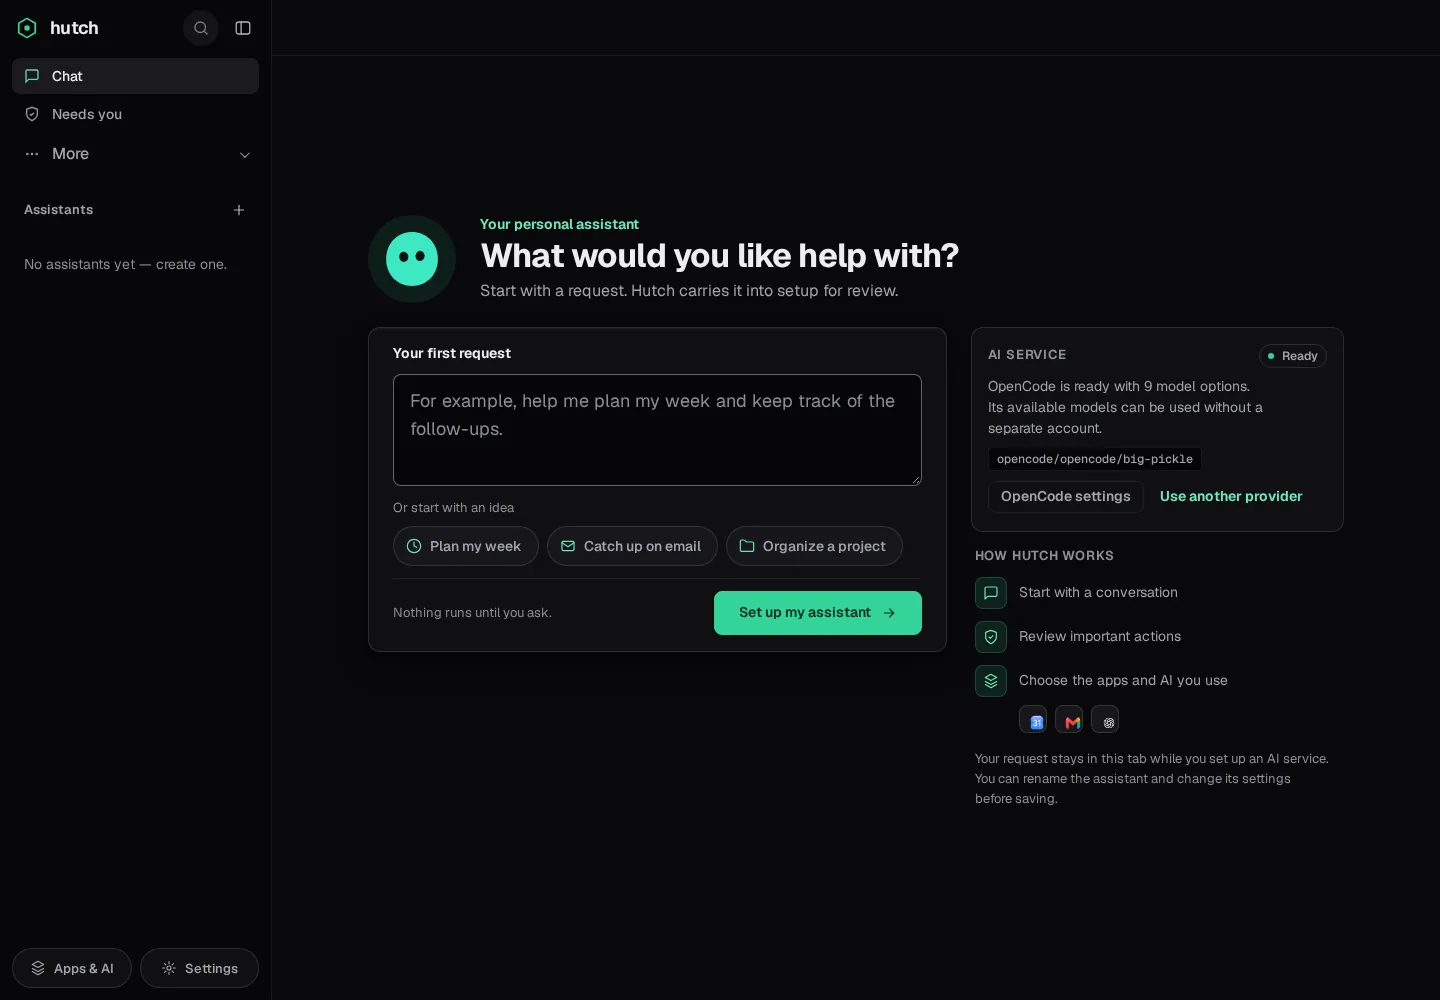
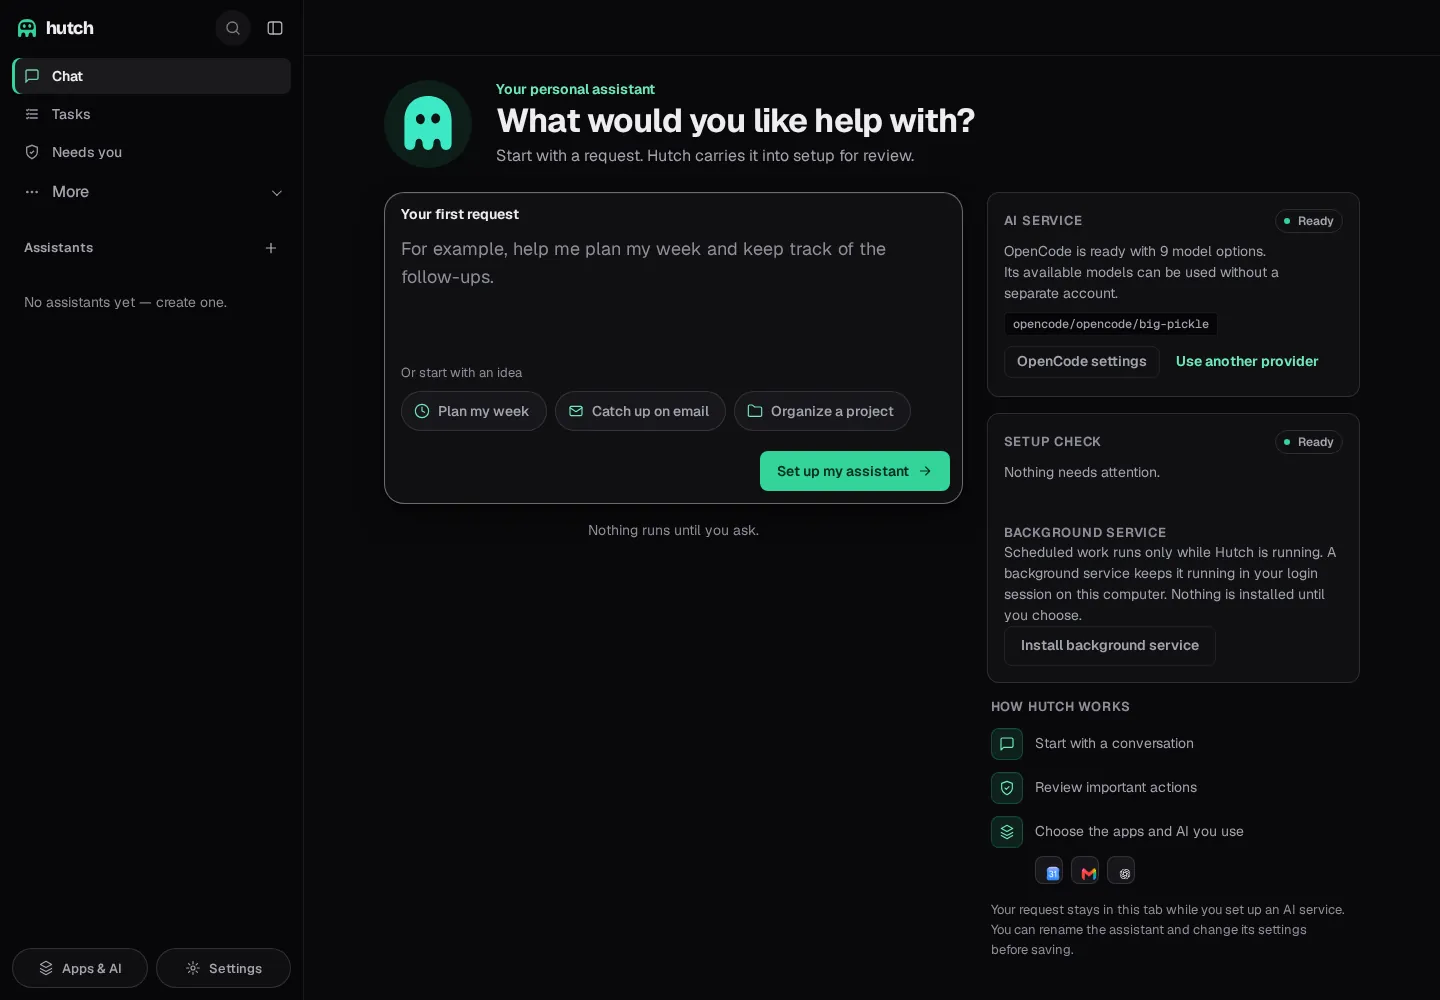
Refresh the first-run captures at three widths and align the site with them

diff --git a/website/index.html b/website/index.html
@@ -341,9 +341,10 @@
         </div>
         <div class="proof-body">
           <picture class="proof-picture">
-            <source media="(max-width: 640px)" srcset="assets/captures/setup-phone.webp?v=b1672b9c" width="390" height="1200">
-            <img class="proof-img" src="assets/captures/setup-desktop.webp?v=da748fab" width="1440" height="1000" loading="lazy" decoding="async"
-                 alt="The actual Hutch welcome screen. A person can describe a request, see whether OpenCode or another AI service is ready, and set up an assistant without repeating the request.">
+            <source media="(max-width: 640px)" srcset="assets/captures/setup-phone.webp?v=b31c9733" width="360" height="1200">
+            <source media="(max-width: 1000px)" srcset="assets/captures/setup-tablet.webp?v=6d7a6a49" width="900" height="1000">
+            <img class="proof-img" src="assets/captures/setup-desktop.webp?v=d31f7321" width="1440" height="1000" loading="lazy" decoding="async"
+                 alt="The actual Hutch welcome screen. A person can describe a request, see whether OpenCode or another AI service is ready, check that the install is healthy and whether the background service is running, and set up an assistant without repeating the request.">
           </picture>
           <figcaption class="proof-legend">
             <ol>
@@ -351,7 +352,7 @@
               <li><b>Know what powers it.</b> Hutch shows the ready AI service and carries that choice into setup.</li>
               <li><b>Keep the final say.</b> Important actions come back to you for review.</li>
             </ol>
-            <p class="proof-meta">Captured from the current local application on 2026-10-23, using a desktop viewport and an extended 390 by 1200 phone viewport to show the full setup panel. The temporary account was empty; no provider call or external action was made.</p>
+            <p class="proof-meta">Captured from the current local application on 2026-10-30 at 1440 by 1000 (desktop), 900 by 1000 (tablet) and an extended 360 by 1200 phone viewport to show the full setup panel. The temporary account was empty; no assistant was created and no request was sent to a model.</p>
           </figcaption>
         </div>
       </figure>
@@ -432,7 +433,7 @@
             <details class="page-details workflow-details">
               <summary>More about history, files, and memory</summary>
               <div class="details-copy">
-                <p>Inspect the final status, tool results, ordered transcript and reported usage. The Chat library can find active, archived, and imported conversation titles across assistants; message search stays focused on active chats. Uncertain effects remain visible for reconciliation. Keep memory private by default. If another assistant needs a fact, share the reviewed snapshot with that named assistant. Either side can revoke; the share adds no tools, account access or workspace context.</p>
+                <p>Inspect the final status, tool results, ordered transcript and reported usage. The Conversations view of Activity can find active, archived, and imported conversation titles across assistants; message search stays focused on active chats. Uncertain effects remain visible for reconciliation. Keep memory private by default. If another assistant needs a fact, share the reviewed snapshot with that named assistant. Either side can revoke; the share adds no tools, account access or workspace context.</p>
                 <p>Workspace settings hold defaults for assistants you create and the optional motion preference. Existing assistants and chats retain their saved choices.</p>
                 <p>For repeat work, save a reviewed request in Hutch&rsquo;s local library and search for it from another chat. Choosing one fills a draft only; you still review and send it yourself.</p>
                 <p>Documents Hutch creates &mdash; PDF, DOCX, XLSX, PPTX, CSV, JSON, Markdown or a ZIP bundle &mdash; are stored on your machine as versioned files with recorded SHA-256 hashes. Downloads come straight from that local store, so a file does not expire with the chat that made it, and each preview says whether it is the extracted content or an approximate render.</p>

diff --git a/tests/e2e/test_website.py b/tests/e2e/test_website.py
@@ -209,7 +209,7 @@ def test_home_loads_real_assets_and_truthful_availability(browser, site_url):
     assert page.locator("#proof .proof-img").count() == 1
     assert "Real application" in page.inner_text("#proof .proof-chrome")
     assert "carries your words into assistant setup" in page.inner_text("#proof")
-    assert "2026-10-23" in page.inner_text("#proof")
+    assert "2026-10-30" in page.inner_text("#proof")   # the capture date the caption states
     assert page.locator("#gate-card, #gate-demo, #gate-allow, #gate-deny").count() == 0
     assert page.locator("#get").get_by_text("Public source", exact=True).count() == 1
     assert page.locator("#get .ev").filter(has_text="Experimental").count() >= 1
@@ -1360,9 +1360,9 @@ def test_real_setup_capture_is_truthful_and_fits_anonymous_viewports(browser, si
         page.locator("img").evaluate_all("imgs => Promise.all(imgs.map(img => { img.loading = 'eager'; return img.decode(); }))")
         page.evaluate("document.fonts.ready")
         figure = image.locator("xpath=ancestor::figure")
-        assert image.evaluate("img => img.naturalWidth") == (390 if width <= 640 else 1440)
+        assert image.evaluate("img => img.naturalWidth") == (360 if width <= 640 else 900 if width <= 1000 else 1440)
         assert "temporary account was empty" in figure.inner_text()
-        assert "no provider call" in figure.inner_text()
+        assert "no request was sent to a model" in figure.inner_text()
         assert "monospace" not in figure.locator(".proof-meta").evaluate("el => getComputedStyle(el).fontFamily")
         assert page.locator("#gate-card, #gate-demo").count() == 0
         page.evaluate("window.scrollTo(0, 0)")
@@ -1373,7 +1373,7 @@ def test_real_setup_capture_is_truthful_and_fits_anonymous_viewports(browser, si
         assert all(url.startswith(site_url) for url in requests), "static site requested another origin"
         files = [SITE_DIR / path for path in (
             "index.html", "styles.css", "site.js", "app.css", "tokens.css",
-            "assets/captures/setup-desktop.webp", "assets/captures/setup-phone.webp")]
+            "assets/captures/setup-desktop.webp", "assets/captures/setup-tablet.webp", "assets/captures/setup-phone.webp")]
         (out / f"site-{size}.json").write_text(json.dumps({
             "captured_at": iso(utcnow()), "browser": browser.browser_type.name, "version": browser.version,
             "viewport": [width, height],

diff --git a/tests/test_site_tokens.py b/tests/test_site_tokens.py
@@ -137,7 +137,7 @@ def test_local_site_images_are_content_pinned():
 
     site = ROOT / "website"
     html = (site / "index.html").read_text()
-    for name in ("assets/captures/setup-desktop.webp", "assets/captures/setup-phone.webp"):
+    for name in ("assets/captures/setup-desktop.webp", "assets/captures/setup-tablet.webp", "assets/captures/setup-phone.webp"):
         digest = hashlib.sha256((site / name).read_bytes()).hexdigest()[:8]
         assert re.search(rf"{re.escape(name)}\?v={digest}(?:\s|\")", html), name
 

diff --git a/docs/realignment/release-readiness-progress.md b/docs/realignment/release-readiness-progress.md
@@ -83,7 +83,10 @@ checked), **not run**, **open**.
 | P3.3 a run whose owner process is gone does not stay "Working" | verified | this commit | `tests/test_orphaned_run_display.py` 3 passed against a **real** exited process recorded as owner and seeded before the app starts: the running supervisor alone recovers it to `failed` with `exit_reason: interrupted` and "the process running this job (...) exited before it finished"; `working_runs` returns to 0; a live owner is left alone over several beats; `hutch doctor` reports it as an orphan before recovery. Limits: the status chip still says "Failed" (the interrupted reason is in the run's error and exit reason; a distinct "Interrupted" chip would touch every `statusChip` caller), and until the next supervisor beat the row is briefly "Working" (bounded by the lease). My earlier stop-all fixture, a `running` row with no owner and no lease, is not a real orphan and is never recovered by design |
 | P3 start states and first success | not started | | S2, `hutch doctor` and service offer in first run |
 | P4 UI promises versus backend sweep | partly done | `06887b15` `696b9f37` | see the table below |
-| P5 README, site and docs truth | not started | | |
+| P5.1 first-run layout (S7): the hint "Nothing runs until you ask." floated alone in the right column and the rail sat under the form (the composer foot and the rail were both auto-placed grid children); on phones the composer's keyboard-hint rule hid the line entirely | verified | `3e677b88` | explicit grid areas in `studio.css` and the first-run override; `tests/e2e/test_first_run_layout.py` 5 passed (4 red first) at 1440, 1100, 900, 600, 360 |
+| P5.2 docs truth: `PRODUCT.md` navigation sentence, `docs/design-system.md` (Chat library, Past work), `docs/requirements.md` UI-2 (Stop all), `docs/README.md` row for the archived `prompts/` directory; a permanent guard that public docs only link to tracked files and the README names only scripts that exist | verified | `5195b9c2` | `tests/test_docs_links.py` 2 passed (red first on the `prompts/` row); a first scan of 36 public docs found exactly those two broken links |
+| P5.3 site and captures: the real first-run page (fresh state directory, no test mode, live AI-service detection) captured at 1440x1000, 900x1000 and 360x1200 into `website/assets/captures/`, with a new tablet source; `?v=` hashes, caption (date, viewports), alt text, README alt text, sitemap `lastmod` and `llms.txt` vocabulary updated; the caption no longer claims "no provider call" because that was never verified, it says no assistant was created and no request was sent to a model | verified | this commit | `tests/test_site_tokens.py` and `tests/test_claims.py` 41 passed; `tests/e2e/test_website.py` 42 passed after updating three pinned expectations (capture date, `naturalWidth` per viewport, the caption phrase); `test_first_run_layout.py`, `test_onboarding_page.py`, `test_onboarding_chooser.py` passed in the same run. **Deviation from the prompt, on purpose:** no *populated* dashboard capture was made for the public site. `PRODUCT.md` requires marketing captures to come from the actual empty first-run product and bans a seeded demo state, so a populated image would need synthetic data presented as the product; the populated state is covered by e2e screenshots in the isolated artifact root, not the site. OpenCode reported 9 options on the desktop capture and 8 on the phone one (live data), so no count appears in any caption. One e2e run overwrote `docs/onboarding/evidence/slice-02/handoff-before-375-dark.png`; restored, as the standing rule requires (that test writes to the reviewed evidence tree: a fourth test to fix) |
+
 | P6.1 build and install smoke (early, to de-risk P6; **P6 is not complete**) | verified | this commit | `uv build` (isolated cache) gives `hutch-0.1.0.tar.gz` and `hutch-0.1.0-py3-none-any.whl`. **Found: the sdist was 267 MB** (274 MB of evidence PNGs under `docs/`); excluding binary media under `docs/` gives **8.3 MB, 1,862 files** (wheel 3.2 MB), guarded by `tests/test_packaging_config.py` (red first); no test reads a docs image as input (the e2e test that names one only records the path). Installed the wheel and its declared dependencies into a fresh venv (the registry was read; no dependency was added or changed): `hutch version` = 0.1.0, `hutch init`, `hutch doctor` ("everything checks out"), package data present (37 scripts, 33 templates). Served `hutch serve --port 8798` from the **installed wheel** with a scratch state directory: `/`, `/models`, `/usage`, `/api/health` and the new static modules 200; `/legacy` 404; `/overview` and `/runs` 302 to the canonical hashes. Chromium 153.0.8010.12 (Playwright 1.63.0) loaded 7 routes at 1440 and 360: 0 console or page errors, 0 failed requests, 0 px overflow, every title `<View> — Hutch`. Also found and fixed: `hutch doctor` swallowed `[browser]` (Rich markup), printing `pip install 'hutch'` instead of `pip install 'hutch[browser]'` (`tests/test_cli_doctor_output.py`, red first; `cli.py` stays at its frozen cap of 2,758) |
 | P6 release readiness (build, install, smoke; never publish) | not started | | |
 

diff --git a/README.md b/README.md
@@ -14,7 +14,7 @@ Local-first, multi-bot AI assistant that runs on your machine.
 
 **Development preview.** APIs, storage schema and CLI may change without notice.
 
-![The Hutch first-run setup screen on a fresh install: no assistants yet, a first-request field with suggested starting points, and a right panel reporting a detected OpenCode service with local model options. No run or provider call has been made.](website/assets/captures/setup-desktop.webp)
+![The Hutch first-run setup screen on a fresh install: no assistants yet, a first-request field with suggested starting points, and a right rail reporting the detected AI service and a read-only setup check with a background-service offer. No assistant was created and no request was sent to a model.](website/assets/captures/setup-desktop.webp)
 
 ```bash
 git clone --depth 1 https://github.com/K-Arthur/hutch.git

diff --git a/.ai/repo-map.generated.md b/.ai/repo-map.generated.md
@@ -6,7 +6,7 @@ no source line counts, no unstaged or ignored files. Ordinary source edits do
 not change it; stage file additions or removals, then regenerate. Do not edit
 this file by hand.
 
-Tracked files in scope: 2122.
+Tracked files in scope: 2123.
 
 ## Top-level layout
 
@@ -25,7 +25,7 @@ Tracked files in scope: 2122.
 | `scripts/` | 36 |
 | `src/` | 448 |
 | `tests/` | 366 |
-| `website/` | 65 |
+| `website/` | 66 |
 
 ## Python package: src/hutch/
 
@@ -75,7 +75,7 @@ Tracked files in scope: 2122.
 | `app/src/(root files)` | 2 |
 | `website/(root files)` | 23 |
 | `website/.well-known/` | 1 |
-| `website/assets/` | 33 |
+| `website/assets/` | 34 |
 | `website/icons/` | 7 |
 | `website/src/` | 1 |
 
